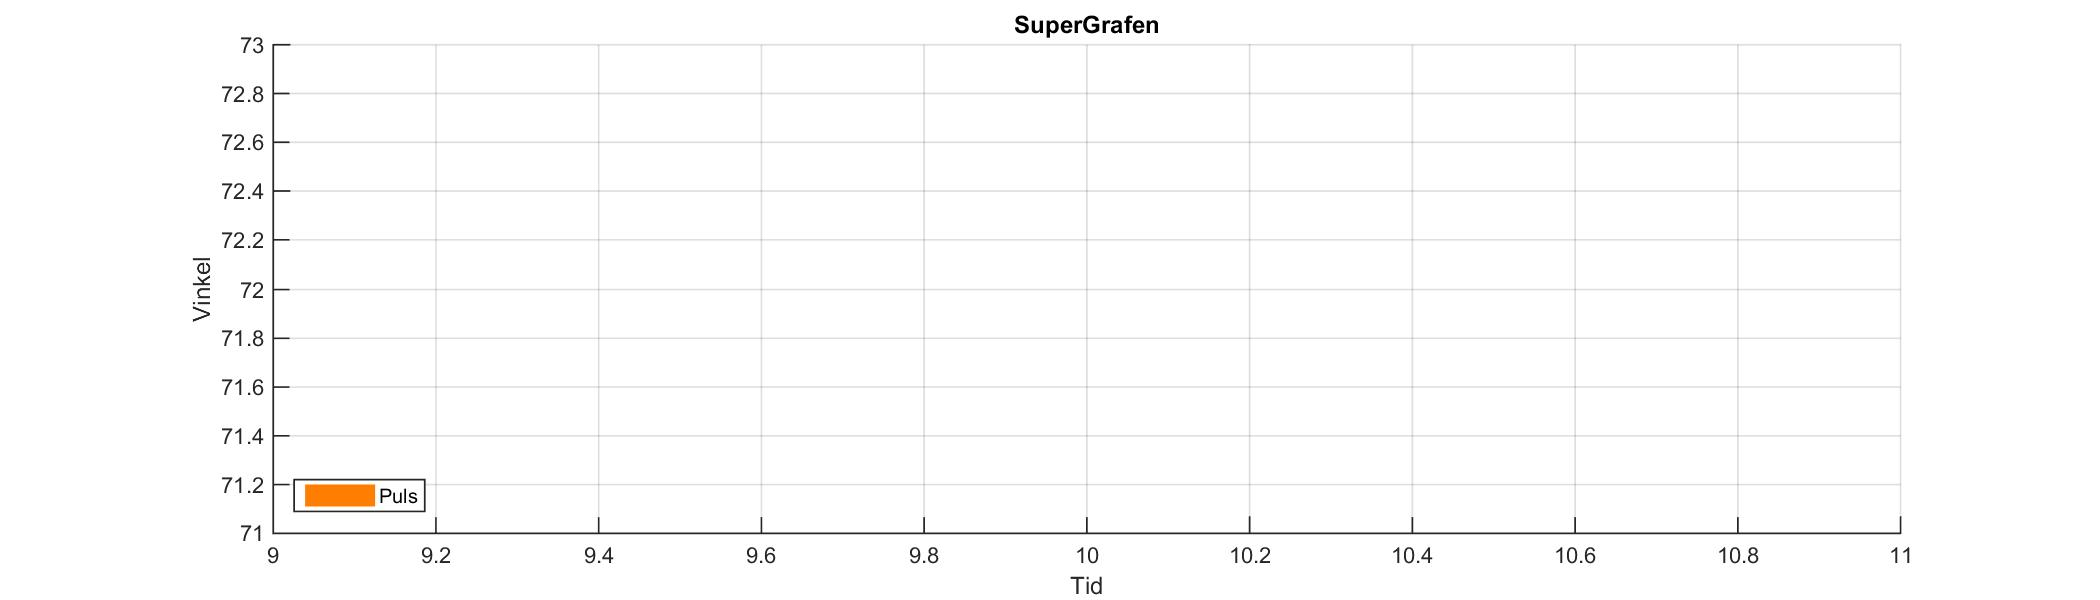
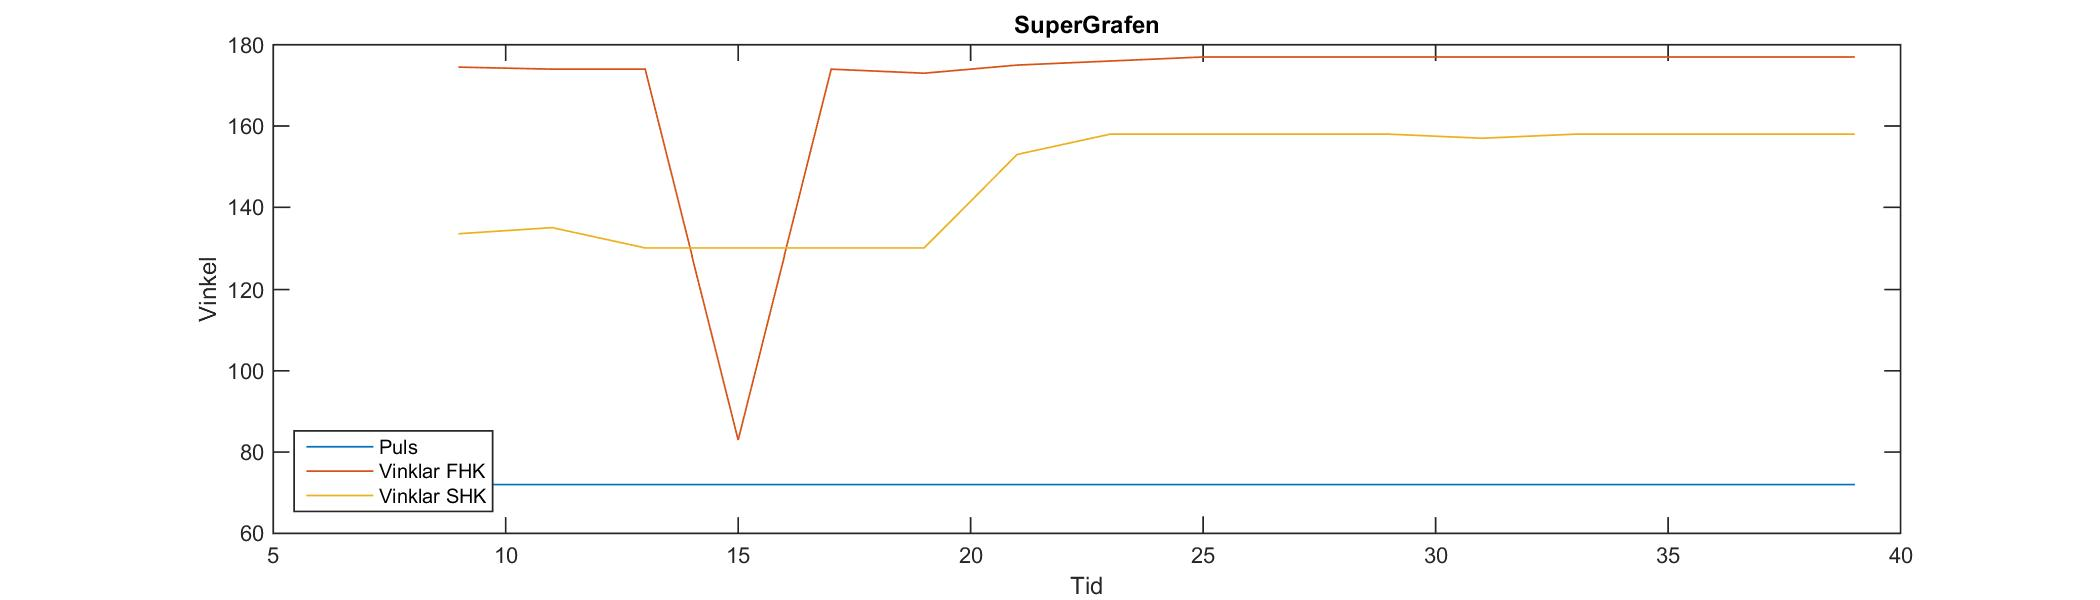
Inget

diff --git a/RoadRunners/SkeletonBasics-WPF/MainWindow.xaml.cs b/RoadRunners/SkeletonBasics-WPF/MainWindow.xaml.cs
@@ -492,9 +492,8 @@ namespace Microsoft.Samples.Kinect.SkeletonBasics
         public double meanPulse;
         public double lagsta_varde_Puls;
         int i = 0;
-        int k = 5;
+        int k = 0;
         //Skapar vektorer
-
         
         public void meanAngleFunc(List<double> minList1, List<double> minList2, List<double> minList3)
         {
@@ -502,13 +501,13 @@ namespace Microsoft.Samples.Kinect.SkeletonBasics
             if (i == k)
             {
                 meanAngle_FHK = minList1.Average();
-            meanList_FHK.Add(meanAngle_FHK);
+                meanList_FHK.Add(meanAngle_FHK);
                 meanAngleBlock_FHK.Text = Convert.ToString(Math.Ceiling(meanList_FHK.LastOrDefault())) + (char)176;
                 miniLengthFHK.Text = Convert.ToString(meanList_FHK.Count);
                 minimumlista_FHK.Clear();
 
                 meanAngle_SHK = minList2.Average();
-            meanList_SHK.Add(meanAngle_SHK);
+                meanList_SHK.Add(meanAngle_SHK);
                 meanAngleBlock_SHK.Text = Convert.ToString(Math.Ceiling(meanList_SHK.LastOrDefault())) + (char)176;
                 miniLengthSHK.Text = Convert.ToString(meanList_SHK.Count);
                 minimumlista_SHK.Clear();
@@ -522,16 +521,11 @@ namespace Microsoft.Samples.Kinect.SkeletonBasics
                 timeList.Add(timeTick);
                 timeTickLength.Text = Convert.ToString(timeList.Count);
 
-                /*
-                //KOLLA PÅ DETTA
-                meanVelocity = velocityListSave.Average();
-                velocityListDatabase.Add(meanVelocity * 3.6);
-                velocityListSave.Clear();
-                */
+                plotAngles();
+
             saveData.ExcelFunkFHK(meanList_FHK);
             saveData.ExcelFunkSHK(meanList_SHK);
                 saveData.ExcelPulseFunk(meanList_pulse);
-
             
                     i = 0;
                 }
@@ -544,7 +538,7 @@ namespace Microsoft.Samples.Kinect.SkeletonBasics
         // Beräknar vinklar beroende på checkboxar
         public void CalculateAngles(Skeleton skeleton, DrawingContext drawingcontext)
         {
-            // plotAngles();
+            
 
             // Definerar jointar
             Joint kneeLeft = skeleton.Joints[JointType.KneeLeft];
@@ -602,7 +596,7 @@ namespace Microsoft.Samples.Kinect.SkeletonBasics
                 anglesHelp_SHK.Add(SHK_angle);
                 }
 
-            contAngle_SHK.Text = Convert.ToString(anglesHelp_FHK);
+         //   contAngle_SHK.Text = Convert.ToString(anglesHelp_FHK);
 
 
                 if (SHK_angle < 140)
@@ -646,7 +640,7 @@ namespace Microsoft.Samples.Kinect.SkeletonBasics
               
                 //Knävinkel
                 lagsta_varde_FHK = anglesHelp_FHK.Min();
-                    minimumlista_FHK.Add(lagsta_varde_FHK);
+                minimumlista_FHK.Add(lagsta_varde_FHK);
                 anglesHelp_FHK.Clear();
                 smallestAngle_FHK.Text = Convert.ToString(lagsta_varde_FHK) + (char)176;
 
@@ -655,16 +649,12 @@ namespace Microsoft.Samples.Kinect.SkeletonBasics
                 minimumlista_SHK.Add(lagsta_varde_SHK);
                 anglesHelp_SHK.Clear();
                 smallestAngle_SHK.Text = Convert.ToString(lagsta_varde_SHK) + (char)176;
-
-
                  
                 //pulsen
                 lagsta_varde_Puls = pulseListHelp.Min();
                 minimumList_pulse.Add(lagsta_varde_Puls);
                 pulseListHelp.Clear();
 
-
-              
                 meanAngleFunc(minimumlista_FHK, minimumlista_SHK, minimumList_pulse);
 
                     counter2 = 0;
@@ -900,7 +890,7 @@ namespace Microsoft.Samples.Kinect.SkeletonBasics
         
               
 
-        private void display_angle_Click(object sender, RoutedEventArgs e)
+       private void display_angle_Click(object sender, RoutedEventArgs e)
         {
              CompositionTargetRendering();
             plotAnglesThread = new Thread(() => printMatLab(timeList, meanList_pulse, meanList_FHK, meanList_SHK));
@@ -967,18 +957,19 @@ namespace Microsoft.Samples.Kinect.SkeletonBasics
                 k = 30;
             }
         }
-        /*
+        
         public void plotAngles()
         {
-            if (angles_SHK.Count() > updateMatlab || angles_FHK.Count() > updateMatlab)
-            {
+           
+                //Grafritning
                 CompositionTargetRendering();
-                plotAnglesThread = new Thread(() => printMatLab(tidsLista_FHK, tidsLista_SHK, angles_FHK, angles_SHK));
+                plotAnglesThread = new Thread(() => printMatLab(timeList, meanList_pulse, meanList_FHK, meanList_SHK));
                 plotAnglesThread.Start();
-                updateMatlab = updateMatlab + 60;
-            }
+            // updateMatlab = updateMatlab + 60;
+            contAngle_FHK.Text = Convert.ToString("Fungerar detta endevor");
+
         }
-        */
+        
         private void ComboBox_Loaded(object sender, RoutedEventArgs e)
         {
             // ... A List.
@@ -1068,8 +1059,7 @@ namespace Microsoft.Samples.Kinect.SkeletonBasics
         }
 
         private void timer2_Tick(object sender, EventArgs e)
-        {
-          
+        { 
             counter2++;
               // timer2.Stop();
             timerContent2.Text = counter2.ToString();

diff --git a/RoadRunners/SkeletonBasics-WPF/myfunc.m b/RoadRunners/SkeletonBasics-WPF/myfunc.m
@@ -25,7 +25,7 @@ x = plot (a,b,a,c,a,d);
 title('SuperGrafen');
 xlabel('Tid');
 ylabel('Vinkel');
- legend('Puls', 'Vinklar FHK','Vinklar SHK' , 'location', 'southwest');
+ legend('Puls','Vinklar FHK','Vinklar SHK' , 'location', 'southwest');
 
 saveas(h, 'Vinkelgraf.jpeg')
 close(h);
